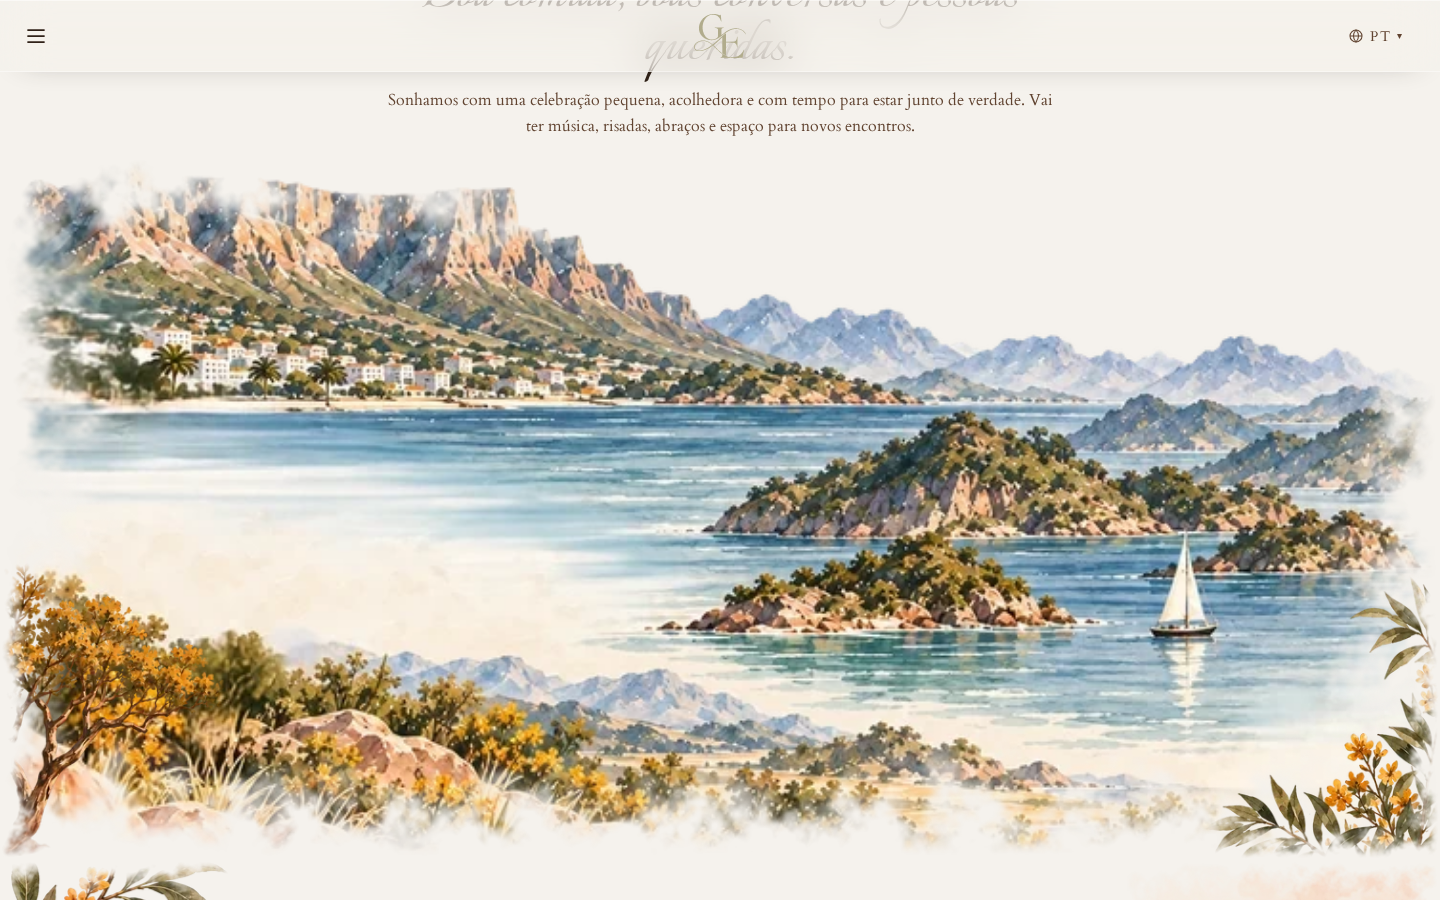
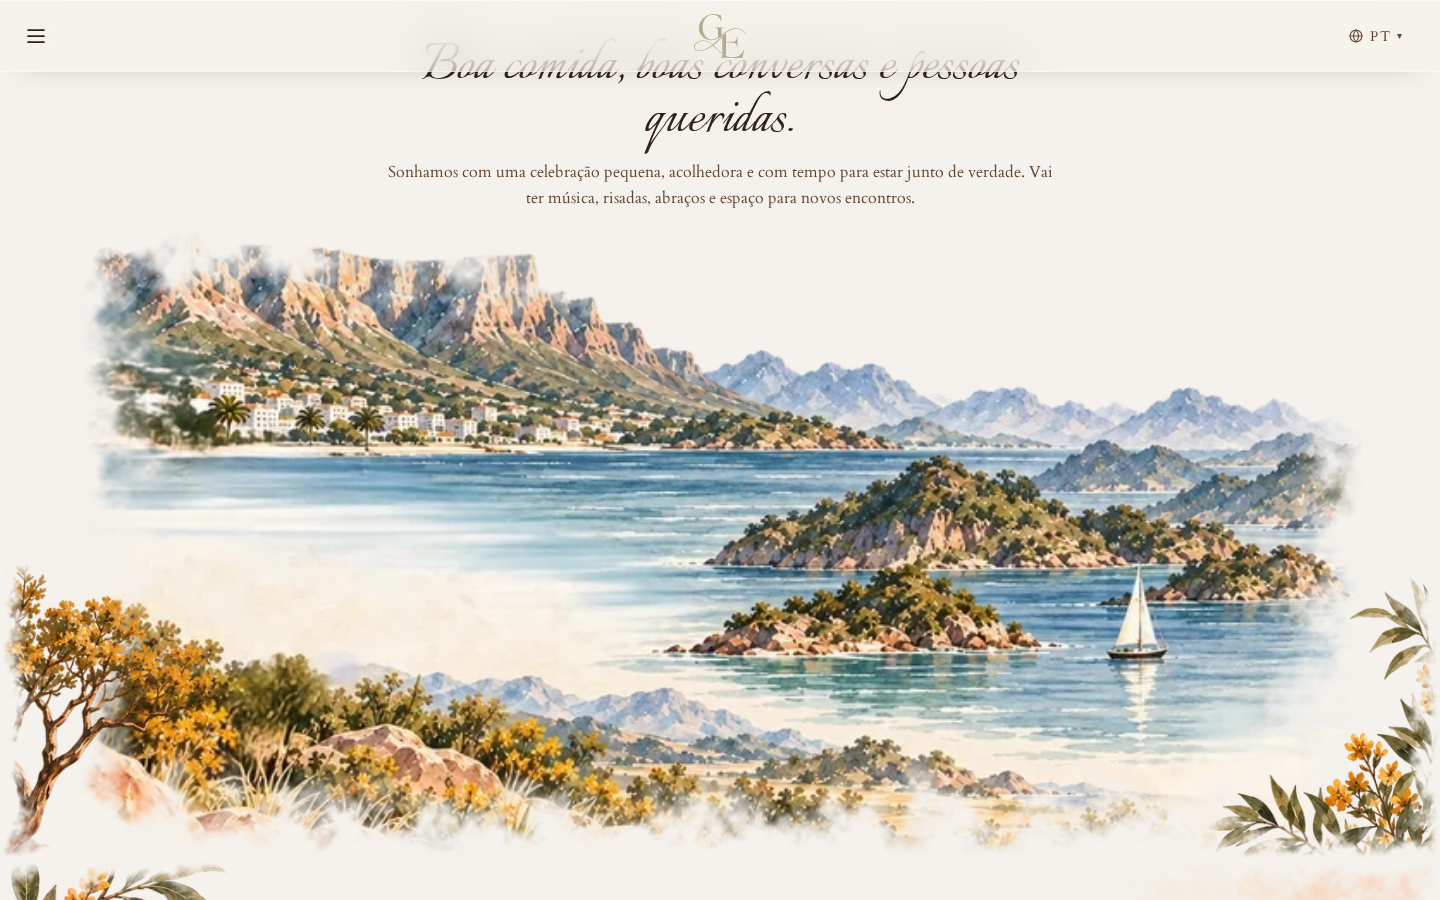
Baía 10% menor

diff --git a/app/presentes/page.tsx b/app/presentes/page.tsx
@@ -36,20 +36,25 @@ export default async function GiftListPage({ searchParams }: Props) {
 
   return (
     <main lang={info.lang} dir={info.dir} className="flex h-[100svh] flex-col bg-page">
-      <header className="flex h-14 shrink-0 items-center justify-between gap-3 border-b border-caramelo-100 bg-page px-4 md:px-6">
+      <header className="relative z-10 grid h-[72px] shrink-0 grid-cols-[minmax(0,1fr)_auto_minmax(0,1fr)] items-center gap-3 bg-white px-4 shadow-[0_10px_30px_-24px_rgba(45,43,35,0.45)] md:px-6">
         <Link
           href={`${info.href}#presentes`}
-          className="inline-flex min-h-[44px] items-center gap-2 font-body text-100 uppercase tracking-[0.18em] text-text-primary hover:text-terracota-700"
+          className="inline-flex min-h-[44px] items-center gap-2 justify-self-start font-body text-100 uppercase tracking-[0.18em] text-text-primary hover:text-terracota-700"
         >
           <span aria-hidden="true" className="rtl:-scale-x-100">←</span> {t.back}
         </Link>
-        <h1 className="truncate font-display text-400 leading-none text-text-primary sm:text-600">{t.pageTitle}</h1>
+        {/* no centro, só a logo do casal (igual ao menu do site); o título fica pra leitor de tela */}
+        <h1 className="justify-self-center">
+          <span className="sr-only">{t.pageTitle}</span>
+          {/* eslint-disable-next-line @next/next/no-img-element */}
+          <img src="/brand/logo-ge.svg" alt="" width={470} height={401} className="h-11 w-auto" />
+        </h1>
         <a
           href={LIST_URL}
           target="_blank"
           rel="noopener noreferrer"
           aria-label={t.newTabLabel}
-          className="inline-flex min-h-[44px] min-w-[44px] items-center justify-end gap-1 whitespace-nowrap font-body text-100 uppercase tracking-[0.12em] text-text-secondary hover:text-terracota-700"
+          className="inline-flex min-h-[44px] min-w-[44px] items-center justify-end gap-1 justify-self-end whitespace-nowrap font-body text-100 uppercase tracking-[0.12em] text-text-secondary hover:text-terracota-700"
         >
           <span className="hidden sm:inline">{t.newTab}</span>
           <span aria-hidden="true" className="text-200">↗</span>

diff --git a/components/organisms/EventSection.tsx b/components/organisms/EventSection.tsx
@@ -78,12 +78,12 @@ function Notice({ icon, title, text }: { icon: React.ReactNode; title: string; t
 
 export function EventSection({ t, locale }: { t: Dictionary["event"]; locale: Locale }) {
   return (
-    <section id="evento" aria-labelledby="evento-titulo" className="relative isolate pb-[calc(49vw+1rem)] pt-section-gap">
+    <section id="evento" aria-labelledby="evento-titulo" className="relative isolate pb-[calc(44vw+1rem)] pt-section-gap">
       {/* aquarelas: ramo no canto de cima, árvore à esquerda, a baía embaixo */}
       <Painting name="ramo-canto-dir-cima" className="absolute right-0 top-0 w-[30vw] max-w-[190px]" />
       <Painting name="ramo-borda-esq" className="absolute left-0 top-[18%] hidden w-[9rem] md:block" />
       <Cloud id={5} className="left-[8%] top-10 w-[46vw] md:w-[24vw]" opacity={0.8} />
-      <Painting name="baia-ilhas" className="absolute bottom-0 left-0 w-full" />
+      <Painting name="baia-ilhas" className="absolute bottom-0 left-1/2 w-[90%] -translate-x-1/2" />
       <Painting name="arvore" className="absolute bottom-0 left-0 w-[28vw] max-w-[230px]" />
       <Painting name="ramo-canto-dir-baixo" className="absolute bottom-0 right-0 w-[34vw] max-w-[240px]" />
 
